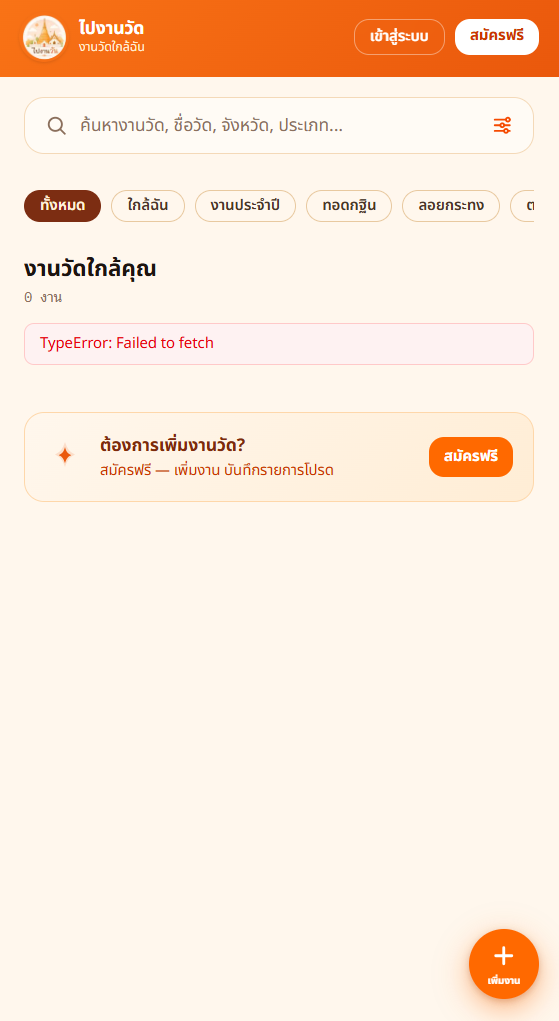
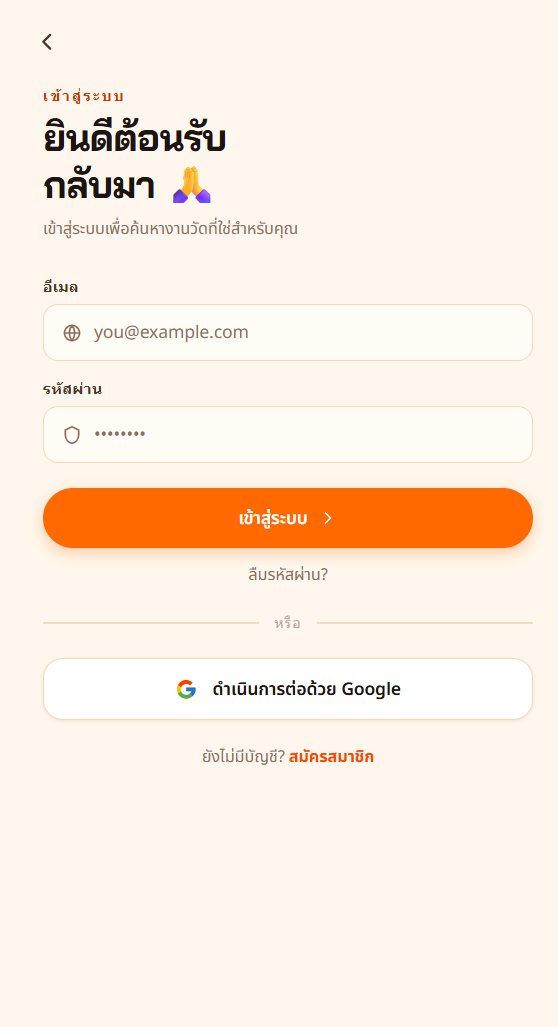
refactor: add image and imgPopup

diff --git a/src/app/components/ProjectPopup.jsx b/src/app/components/ProjectPopup.jsx
@@ -1,10 +1,21 @@
 "use client";
 import Image from "next/image";
+import { useEffect, useState } from "react";
 import arrow from "../../../public/images/arrow.png";
 import { useHorizontalScroll } from "../hooks/useHorizontalScroll";
 
 export default function ProjectPopup({ project, onClose }) {
     const { ref, scrollLeft, scrollRight } = useHorizontalScroll(160);
+    const [zoomedImage, setZoomedImage] = useState(null);
+
+    useEffect(() => {
+        if (!zoomedImage) return;
+        const handleKeyDown = (e) => {
+            if (e.key === "Escape") setZoomedImage(null);
+        };
+        window.addEventListener("keydown", handleKeyDown);
+        return () => window.removeEventListener("keydown", handleKeyDown);
+    }, [zoomedImage]);
 
     return (
         <>
@@ -22,13 +33,18 @@ export default function ProjectPopup({ project, onClose }) {
                             >
                                 {project.imageList.map((image, index) => (
                                     <div key={index} className="w-[26rem] grid snap-center">
-                                        <div className="w-[16rem]">
+                                        <button
+                                            type="button"
+                                            className="w-[16rem] cursor-zoom-in p-0! border-0 bg-transparent"
+                                            onClick={() => setZoomedImage(image)}
+                                            aria-label={`Expand ${project.title} screenshot ${index + 1}`}
+                                        >
                                             <Image
                                                 src={image}
                                                 alt={`${project.title} screenshot ${index + 1}`}
                                                 className="w-full h-[10rem] object-cover"
                                             />
-                                        </div>
+                                        </button>
                                     </div>
                                 ))}
                             </div>
@@ -51,6 +67,32 @@ export default function ProjectPopup({ project, onClose }) {
                 className="fixed top-0 left-0 right-0 bottom-0 w-full h-full opacity-50 bg-black z-10"
                 onClick={onClose}
             ></div>
+
+            {zoomedImage && (
+                <div
+                    className="lightbox-overlay fixed inset-0 z-30 flex items-center justify-center bg-black/85 p-4 cursor-zoom-out"
+                    onClick={() => setZoomedImage(null)}
+                >
+                    <div className="relative">
+                        <div className="flex justify-end">
+                            <button
+                                type="button"
+                                className="nes-btn is-error w-fit absolute top-0 right-0"
+                                onClick={() => setZoomedImage(null)}
+                                aria-label="Close enlarged image"
+                            >
+                                x
+                            </button>
+                        </div>
+                        <Image
+                            src={zoomedImage}
+                            alt={`${project.title} screenshot enlarged`}
+                            className="lightbox-image max-w-[92vw] max-h-[88vh] w-auto h-auto object-contain"
+                            onClick={(e) => e.stopPropagation()}
+                        />
+                    </div>
+                </div>
+            )}
         </>
     );
 }

diff --git a/src/app/globals.css b/src/app/globals.css
@@ -33,3 +33,31 @@ a {
 button:hover {
   scale: 106%;
 }
+
+@keyframes lightbox-fade {
+  from {
+    opacity: 0;
+  }
+  to {
+    opacity: 1;
+  }
+}
+
+@keyframes lightbox-zoom {
+  from {
+    opacity: 0;
+    transform: scale(0.85);
+  }
+  to {
+    opacity: 1;
+    transform: scale(1);
+  }
+}
+
+.lightbox-overlay {
+  animation: lightbox-fade 0.25s ease-out;
+}
+
+.lightbox-image {
+  animation: lightbox-zoom 0.3s cubic-bezier(0.16, 1, 0.3, 1);
+}

diff --git a/src/app/dataset.jsx b/src/app/dataset.jsx
@@ -37,6 +37,10 @@ import afp5 from "../../public/projectImages/afp5.png";
 import afp6 from "../../public/projectImages/afp6.png";
 import pnw1 from "../../public/projectImages/pnw1.png";
 import pnw2 from "../../public/projectImages/pnw2.png";
+import pnw3 from "../../public/projectImages/pnw3.png";
+import pnw4 from "../../public/projectImages/pnw4.png";
+import pnw5 from "../../public/projectImages/pnw5.png";
+import pnw6 from "../../public/projectImages/pnw6.png";
 
 export const personalInfo = {
     greeting: "Hi I'm Mon",
@@ -347,7 +351,7 @@ export const myProjectData = [
         title: "Painganwad",
         url: "https://painganwad.com/",
         mainImage: pnw1,
-        imageList: [pnw1, pnw2],
+        imageList: [pnw1, pnw2, pnw3, pnw4, pnw5, pnw6],
         detail: (
             <div>
                 <div className="nes-text is-primary mb-4!">Tech: Next.js, Supabase</div>

diff --git a/src/app/page.jsx b/src/app/page.jsx
@@ -8,7 +8,7 @@ import Contact from "./components/Contact";
 
 export default function Home() {
     return (
-        <div className="container mx-auto px-4 lg:px-10 py-10 flex flex-col gap-8 lg:gap-10">
+        <div className="container mx-auto px-4 lg:px-10 pt-10 pb-20 flex flex-col gap-8 lg:gap-10">
             <Hero />
             <About />
             <ProfileEducation />